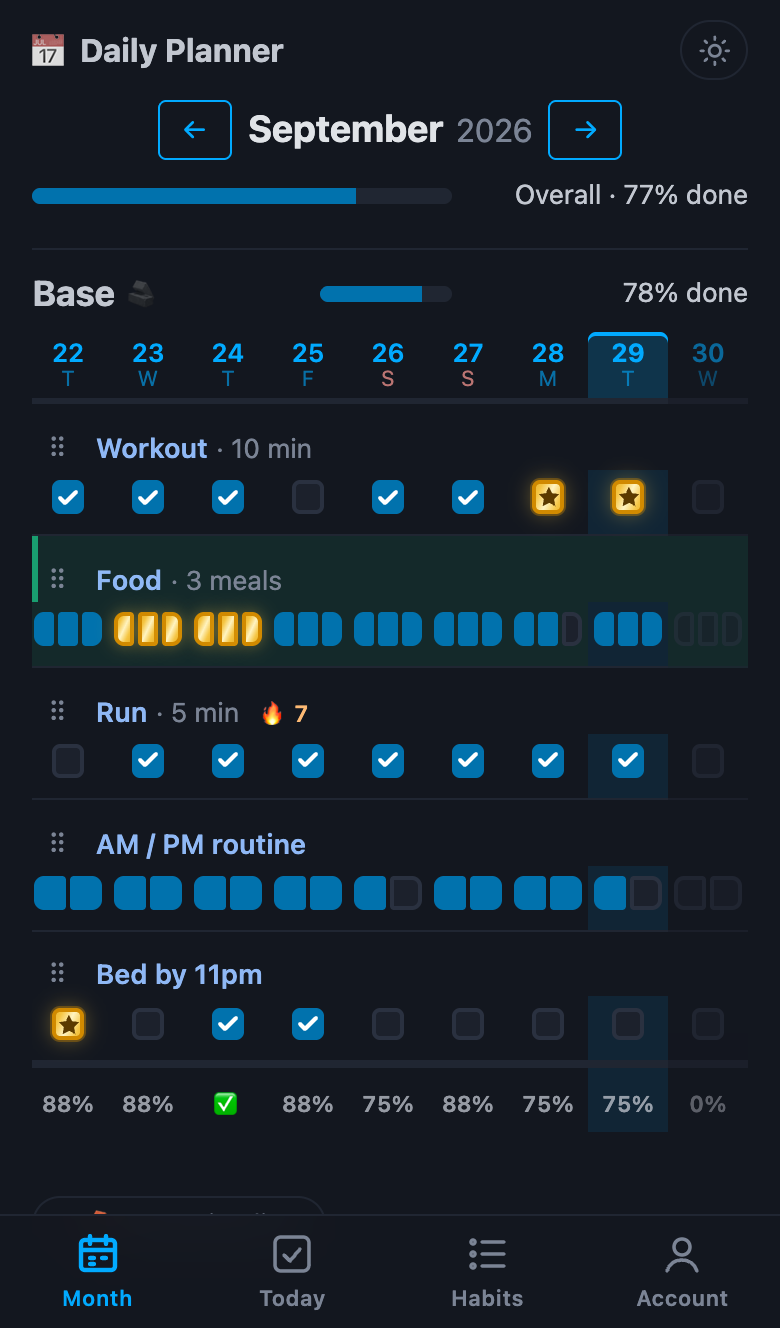
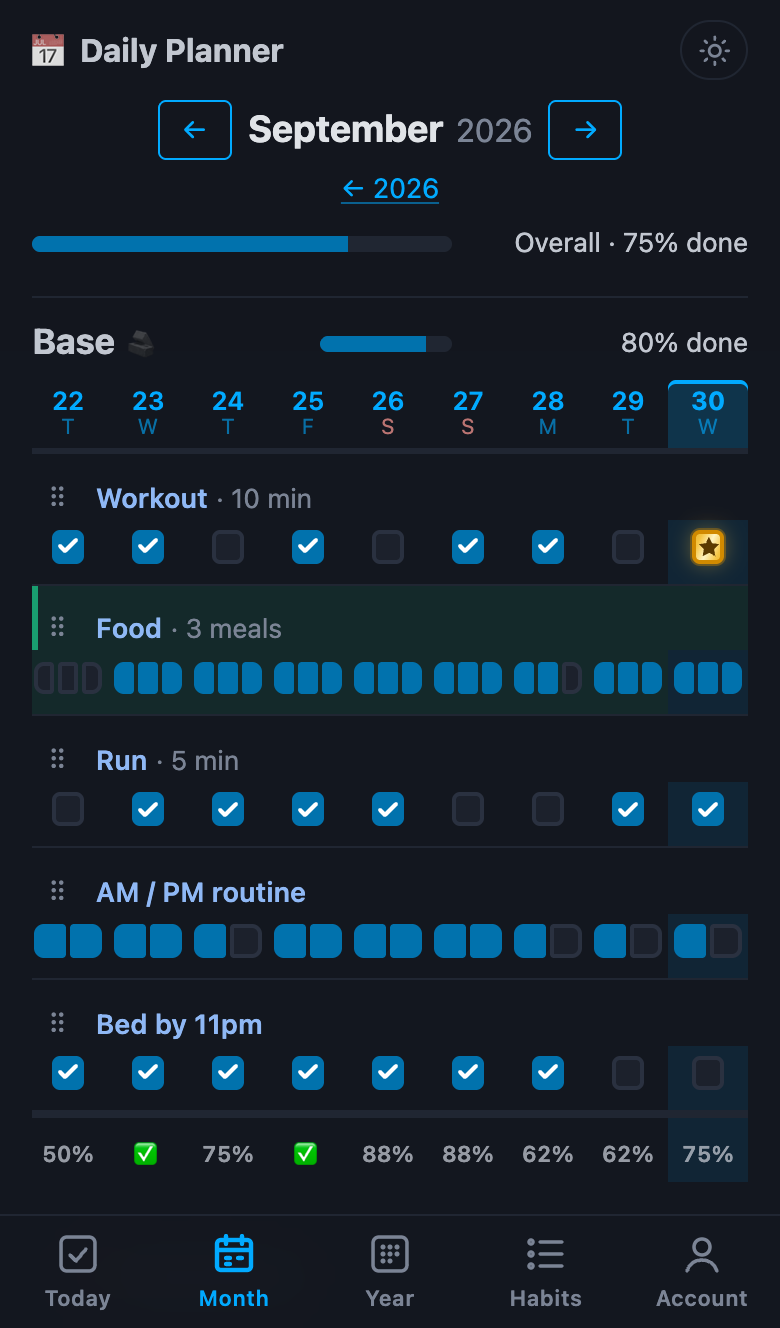
Year tab in the menus; tabs ordered Today · Month · Year · Habits · Account
- Phones: a fifth tab in the bottom bar (64px each even on an iPhone SE), with a
  light icon in the family of the others: a frame with small dots like the year
  grid, the last one left out since the year isn't over. Computers: "Year" in the
  header. The year page now highlights Year instead of Month.
- Tabs follow the page links (day → month → year), then Habits and Account.
- README phone screenshots retaken with the new bar.

diff --git a/app/templates/base.html b/app/templates/base.html
@@ -38,8 +38,9 @@
           </button>
         </li>
         {% if request.session.get("user_id") %}
-        <li><a href="/">Month</a></li>
         <li><a href="/day/{{ today_iso() }}">Today</a></li>
+        <li><a href="/">Month</a></li>
+        <li><a href="/year">Year</a></li>
         <li><a href="/habits">Habits</a></li>
         <li><a href="/account">Account</a></li>
         <li>
@@ -61,8 +62,10 @@
     <a href="{{ href }}"{% if active %} aria-current="page"{% endif %}>{{ caller() }}<span>{{ label }}</span></a>
   {%- endmacro %}
   <nav class="tabbar" aria-label="Main">
-    {% call tab("/", "Month", path.startswith("/month/") or path.startswith("/year")) %}<svg viewBox="0 0 24 24" aria-hidden="true"><rect x="3.5" y="5" width="17" height="15" rx="2"/><path d="M3.5 10h17M8 3v4M16 3v4M8 14h2M14 14h2M8 17h2"/></svg>{% endcall %}
+    {# Day → month → year, then the settings-like pages. #}
     {% call tab("/day/" ~ today_iso(), "Today", path.startswith("/day/")) %}<svg viewBox="0 0 24 24" aria-hidden="true"><rect x="3.5" y="3.5" width="17" height="17" rx="3"/><path d="M8 12.5l3 3 5-6"/></svg>{% endcall %}
+    {% call tab("/", "Month", path.startswith("/month/")) %}<svg viewBox="0 0 24 24" aria-hidden="true"><rect x="3.5" y="5" width="17" height="15" rx="2"/><path d="M3.5 10h17M8 3v4M16 3v4M8 14h2M14 14h2M8 17h2"/></svg>{% endcall %}
+    {% call tab("/year", "Year", path.startswith("/year")) %}<svg viewBox="0 0 24 24" aria-hidden="true"><rect x="3.5" y="3.5" width="17" height="17" rx="3"/><g class="fill"><circle cx="8.5" cy="8.5" r="1.25"/><circle cx="12" cy="8.5" r="1.25"/><circle cx="15.5" cy="8.5" r="1.25"/><circle cx="8.5" cy="12" r="1.25"/><circle cx="12" cy="12" r="1.25"/><circle cx="15.5" cy="12" r="1.25"/><circle cx="8.5" cy="15.5" r="1.25"/><circle cx="12" cy="15.5" r="1.25"/></g></svg>{% endcall %}
     {% call tab("/habits", "Habits", path == "/habits") %}<svg viewBox="0 0 24 24" aria-hidden="true"><path d="M9 6h11M9 12h11M9 18h11"/><circle cx="4.5" cy="6" r="1"/><circle cx="4.5" cy="12" r="1"/><circle cx="4.5" cy="18" r="1"/></svg>{% endcall %}
     {% call tab("/account", "Account", path == "/account") %}<svg viewBox="0 0 24 24" aria-hidden="true"><circle cx="12" cy="8.5" r="4"/><path d="M4.5 20.5c1.2-3.8 4-5.5 7.5-5.5s6.3 1.7 7.5 5.5"/></svg>{% endcall %}
   </nav>

diff --git a/app/static/style.css b/app/static/style.css
@@ -635,7 +635,7 @@ a.yc:hover, a.yc:focus-visible { outline: 1.5px solid var(--pico-color); outline
 
   .tabbar {
     position: fixed; inset: auto 0 0 0; z-index: 10;
-    display: grid; grid-template-columns: repeat(4, 1fr);
+    display: grid; grid-template-columns: repeat(5, 1fr);
     padding-bottom: env(safe-area-inset-bottom);
     background: color-mix(in srgb, var(--pico-background-color) 88%, transparent);
     backdrop-filter: blur(12px); -webkit-backdrop-filter: blur(12px);
@@ -653,6 +653,7 @@ a.yc:hover, a.yc:focus-visible { outline: 1.5px solid var(--pico-color); outline
   }
   .tabbar a[aria-current="page"] { color: var(--pico-primary); }
   .tabbar a[aria-current="page"] svg { stroke-width: 2.2; }
+  .tabbar svg .fill { fill: currentColor; stroke: none; }
   .tabbar a:active { transform: scale(.94); }
   /* Keep the last rows and notes clear of the bar. */
   body:has(.tabbar) { padding-bottom: calc(56px + env(safe-area-inset-bottom)); }

diff --git a/tests/test_routes.py b/tests/test_routes.py
@@ -258,6 +258,7 @@ def test_static_files_are_versioned(client):
     [
         ("/month/2026-09", "Month"),
         ("/day/2026-09-27", "Today"),
+        ("/year/2026", "Year"),
         ("/habits", "Habits"),
         ("/account", "Account"),
     ],
@@ -265,7 +266,14 @@ def test_static_files_are_versioned(client):
 def test_phone_tab_bar(client, url, active):
     page = client.get(url).text
     tabbar = page.split('<nav class="tabbar" aria-label="Main">')[1].split("</nav>")[0]
-    assert tabbar.count("<a href=") == 4
+    assert tabbar.count("<a href=") == 5
+    assert [t for t in re.findall(r"<span>(\w+)</span>", tabbar)] == [
+        "Today",
+        "Month",
+        "Year",
+        "Habits",
+        "Account",
+    ]
     assert re.search(rf'aria-current="page">.*?<span>{active}</span>', tabbar, re.S)
     assert tabbar.count('aria-current="page"') == 1
 
@@ -307,9 +315,9 @@ def test_year_page(client):
     assert client.get("/year/2026?category=99").status_code == 404
     assert "Nothing tracked in 2019 yet" in client.get("/year/2019").text
     assert client.get("/year/1999").status_code == 422
-    # Reached from the month page, and the tab bar keeps Month active.
+    # Reached from the month page (and the Year tab, which is active here).
     assert '<a href="/year/2026">← 2026</a>' in client.get("/month/2026-09").text
-    assert re.search(r'aria-current="page">.*?<span>Month</span>', page, re.S)
+    assert re.search(r'aria-current="page">.*?<span>Year</span>', page, re.S)
 
 
 def test_short_addresses_and_manifest(client, anon_client):
